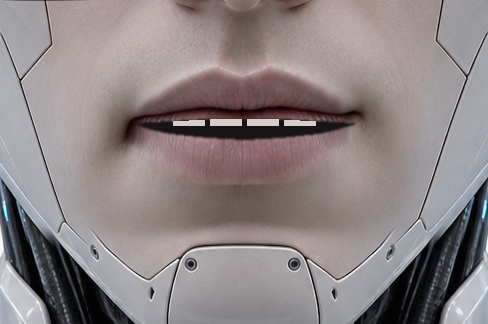
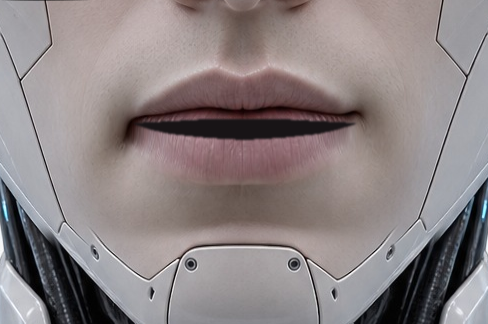
Fase 4: quita los dientes pintados de la boca abierta
A Eduardo no le convencian los bloques de dientes pintados a mano -
se quitan y la boca abierta vuelve a mostrar solo la cavidad oscura
neutra (ya sin el tono rojo del primer intento). La mandibula sigue
moviendose igual.

Aprobado tras verlo en vivo en el navegador (GIF grabado con
conversacion real, incluye un parpadeo natural en medio de la
respuesta).

Claude-Session: https://claude.ai/code/session_01E3EALaTiNzLizZiiaPsovU

Changed region(s): [[0.3381, 0.3704, 0.6455, 0.4012]]

diff --git a/core/face_gen.py b/core/face_gen.py
@@ -146,7 +146,6 @@ def _paint_gap(
     shape = np.sin(np.pi * t) ** 0.7
     upper_ys = center_y - upper_amt * shape
     lower_ys = center_y + lower_amt * shape
-    teeth_ys = upper_ys + 0.32 * (lower_ys - upper_ys)
 
     def _poly(top_ys: np.ndarray, bottom_ys: np.ndarray) -> np.ndarray:
         top_pts = np.stack([xs, top_ys], axis=1)
@@ -163,30 +162,7 @@ def _paint_gap(
         return (fill.astype(np.float32) * mask3 + base.astype(np.float32) * (1 - mask3))
 
     out = _blend(img, _poly(upper_ys, lower_ys), (22, 20, 24), 5)  # BGR: cavidad oscura neutra
-    out = out.astype(np.uint8)
-
-    # Dientes individuales, no una franja solida: se dibujan como bloques
-    # separados por huecos reales (color de cavidad), sin blur. Una raya
-    # divisoria fina de un solo pixel desaparece al reescalar la imagen
-    # al tamano final del sprite en la UI (~0.2x) - un hueco con ancho de
-    # verdad sobrevive esa reduccion.
-    n_teeth = 6
-    gap_frac = 0.16
-    for i in range(n_teeth):
-        f0 = i / n_teeth + gap_frac / (2 * n_teeth)
-        f1 = (i + 1) / n_teeth - gap_frac / (2 * n_teeth)
-        top0, top1 = np.interp([f0, f1], t, upper_ys)
-        bot0, bot1 = np.interp([f0, f1], t, teeth_ys)
-        if min(bot0 - top0, bot1 - top1) < 2:
-            continue
-        x0 = left_x + (right_x - left_x) * f0
-        x1 = left_x + (right_x - left_x) * f1
-        tooth_poly = np.array(
-            [[x0, top0], [x1, top1], [x1, bot1], [x0, bot0]], dtype=np.int32
-        )
-        cv2.fillConvexPoly(out, tooth_poly, (200, 206, 214))  # BGR: dientes
-
-    return out
+    return out.astype(np.uint8)
 
 
 def _paint_lid_line(img: np.ndarray, left_x: float, right_x: float, y: float) -> np.ndarray:
